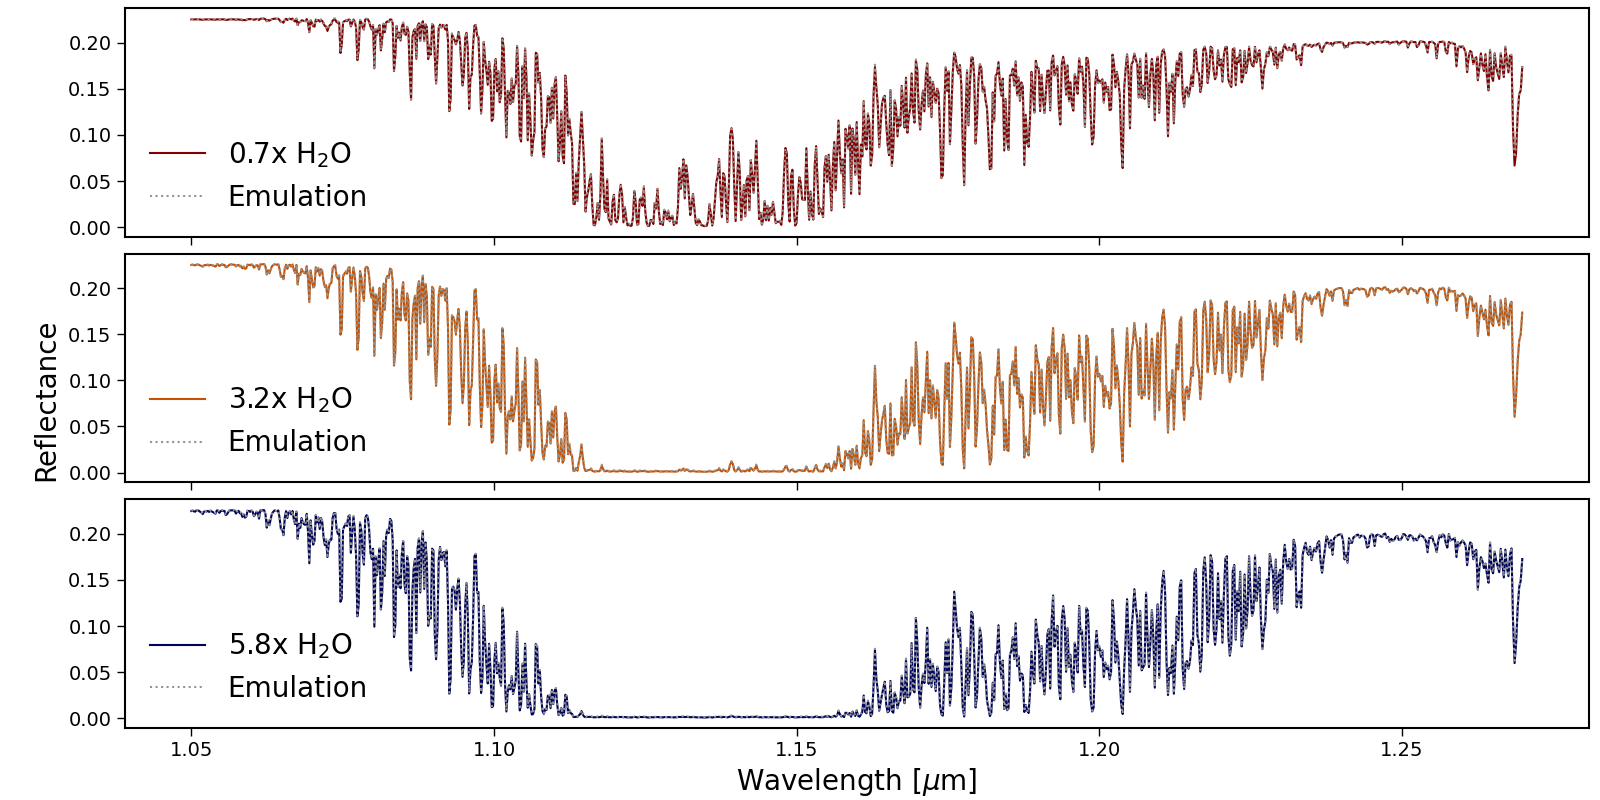
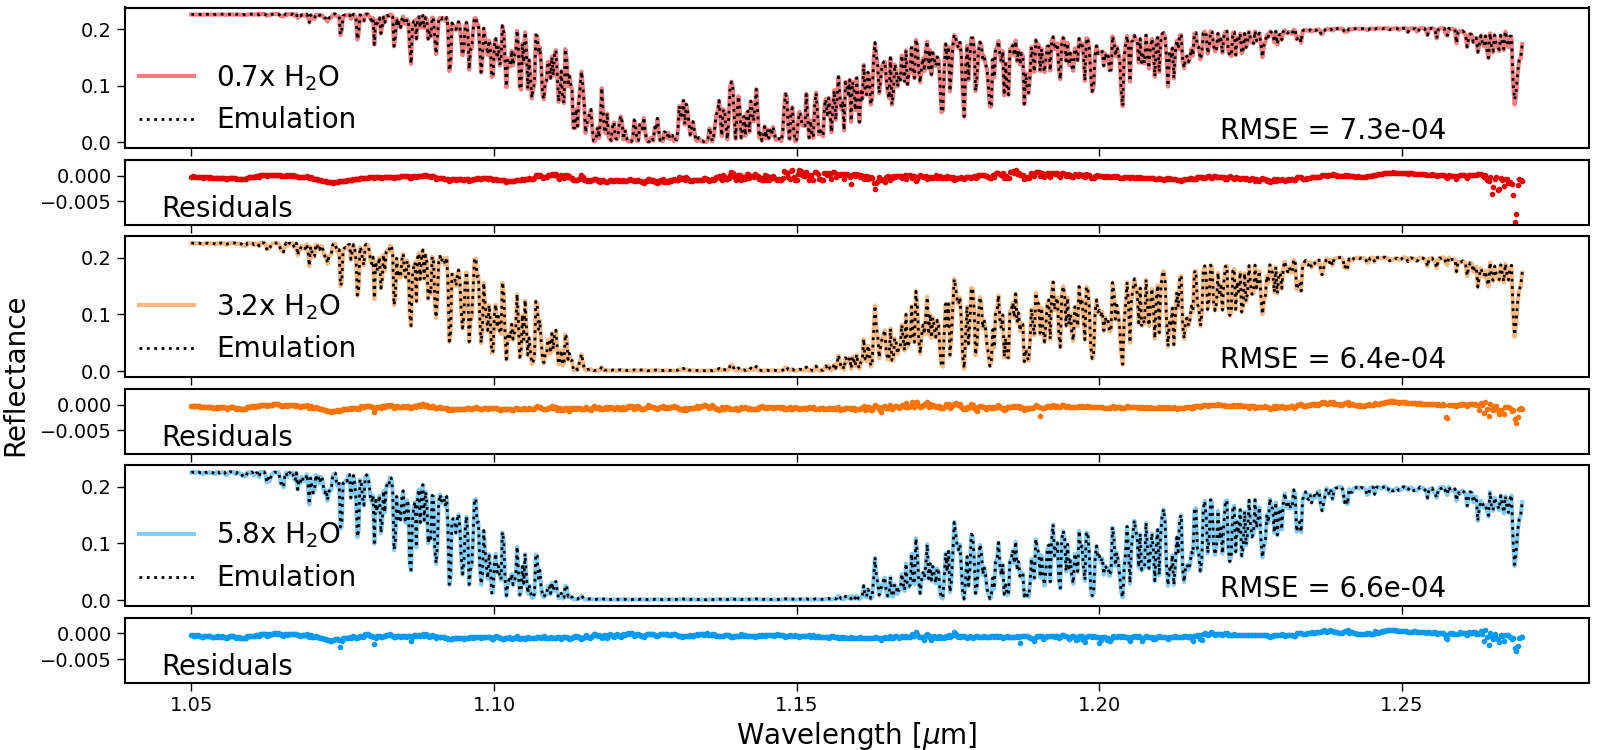
visual improvements to plots

diff --git a/Plot_Test.py b/Plot_Test.py
@@ -4,11 +4,19 @@ import h5py
 import pandas
 from astropy.io import ascii
 from degrade_spec_demo import *
+import matplotlib.gridspec as gridspec
 
 pt = ascii.read('../FluxPrintOut_Dev/PT_profile_Baseline.pt')
 p = list(pt['Press'])
 
 disortdat = h5py.File('../DISORT_Testing_Data.h5', 'r')
+
+# Root mean squared Error
+def RMSE(tru, fl):
+    top = np.sum((tru-fl)**2)
+    val = top/len(tru)
+    rmse = np.sqrt(val)
+    return rmse
 
 
 
@@ -283,27 +291,41 @@ def plot_TOAFlup(resol='high'):
 
     #pr1 = em1[:,0]
 
-    fig = plt.figure(figsize=(16,8))
-    ax1 = fig.add_subplot(311)
+    fig = plt.figure(figsize=(16,7.5))
+    '''ax1 = fig.add_subplot(311)
     ax2 = fig.add_subplot(312)
-    ax3 = fig.add_subplot(313)
+    ax3 = fig.add_subplot(313)'''
+
+    gs = gridspec.GridSpec(9, 1, figure=fig)
+
+    # Big subplots (2x height)
+    ax1 = fig.add_subplot(gs[0:2, 0])   # subplot 1 (double height)
+    ax3 = fig.add_subplot(gs[3:5, 0])   # subplot 3 (double height)
+    ax5 = fig.add_subplot(gs[6:8, 0])   # subplot 5 (double height)
+
+    # Small subplots (1x height)
+    ax2 = fig.add_subplot(gs[2, 0])     # subplot 2 (normal height)
+    ax4 = fig.add_subplot(gs[5, 0])     # subplot 4 (normal height)
+    ax6 = fig.add_subplot(gs[8, 0])     # subplot 6 (normal height)
 
     if resol == 'high':
         mask = tru1 > 0
         ax1.plot(wav1[mask], tru1[mask], color='xkcd:red', label='0.7x H2O')
-        mask = em1[:,0] > 0
-        ax1.plot(wav1[mask], em1[:,0][mask], color='xkcd:dark red', linestyle='--', label='Emulation')
+        mask1 = em1[:,0] > 0
+        ax1.plot(wav1[mask1], em1[:,0][mask1], color='xkcd:dark red', linestyle='--', label='Emulation')
+        ax2.plot(wav1[mask & mask1], tru1[mask & mask1]-em1[:,0][mask & mask1], linestyle='', marker='.', color='xkcd:dark red', label='Residuals')
         
         mask = tru2 > 0
-        ax2.plot(wav2[mask], tru2[mask], color='xkcd:orange', label='3.2x H2O')
-        mask = em2[:,0] > 0
-        ax2.plot(wav2[mask], em2[:,0][mask], color='xkcd:dark orange', linestyle='--', label='Emulation')
-        
+        ax3.plot(wav2[mask], tru2[mask], color='xkcd:orange', label='3.2x H2O')
+        mask1 = em2[:,0] > 0
+        ax3.plot(wav2[mask1], em2[:,0][mask1], color='xkcd:dark orange', linestyle='--', label='Emulation')
+        ax4.plot(wav2[mask & mask1], tru2[mask & mask1]-em2[:,0][mask & mask1], linestyle='', marker='.', color='xkcd:dark orange', label='Residuals')
+
         mask = tru3 > 0
-        ax3.plot(wav3[mask], tru3[mask], color='xkcd:blue', label='5.8x H2O')
-        mask = em3[:,0] > 0
-        ax3.plot(wav3[mask], em3[:,0][mask], color='xkcd:dark blue', linestyle='--', label='Emulation')
-        
+        ax5.plot(wav3[mask], tru3[mask], color='xkcd:blue', label='5.8x H2O')
+        mask1 = em3[:,0] > 0
+        ax5.plot(wav3[mask1], em3[:,0][mask1], color='xkcd:dark blue', linestyle='--', label='Emulation')
+        ax6.plot(wav3[mask & mask1], tru3[mask & mask1]-em3[:,0][mask & mask1], linestyle='', marker='.', color='xkcd:dark blue', label='Residuals')
     
     elif resol == 'low':
         newwl = np.linspace(max(wav1[0], wav2[0], wav3[0]), min(wav1[len(wav1)-1], wav2[len(wav2)-1], wav3[len(wav3)-1]), 500)
@@ -362,17 +384,26 @@ def plot_TOAFlup(resol='high'):
         # degrade spectrum
         tru3 = kernel_convol(kern,tru3[mask])
 
-        ax1.plot(lam_lr, tru1, color='xkcd:dark red', label=r'0.7x H$_{2}$O')
-        ax1.plot(lam_lr, fl1, color='xkcd:grey', linestyle=':', label='Emulation')
+        ax1.plot(lam_lr, tru1, color='xkcd:red', alpha=0.5, lw=3, label=r'0.7x H$_{2}$O')
+        ax1.plot(lam_lr, fl1, color='xkcd:black', linestyle=':', lw=2, label='Emulation')
+        ax2.plot(lam_lr, tru1-fl1, color='xkcd:red', linestyle='', marker='.')
+        rmse1 = RMSE(tru1, fl1)
+        ax1.annotate('RMSE = '+"{:.1e}".format(rmse1), (1.22, 0.006), size=20)
 
-        ax2.plot(lam_lr, tru2, color='xkcd:dark orange', label=r'3.2x H$_{2}$O')
-        ax2.plot(lam_lr, fl2, color='xkcd:grey', linestyle=':', label='Emulation')
+        ax3.plot(lam_lr, tru2, color='xkcd:orange', alpha=0.5, lw=3, label=r'3.2x H$_{2}$O')
+        ax3.plot(lam_lr, fl2, color='xkcd:black', linestyle=':', lw=2, label='Emulation')
+        ax4.plot(lam_lr, tru2-fl2, color='xkcd:orange', linestyle='', marker='.')
+        rmse2 = RMSE(tru2, fl2)
+        ax3.annotate('RMSE = '+"{:.1e}".format(rmse2), (1.22, 0.006), size=20)
+        
+        ax5.plot(lam_lr, tru3, color='xkcd:azure', alpha=0.5, lw=3, label=r'5.8x H$_{2}$O')
+        ax5.plot(lam_lr, fl3, color='xkcd:black', linestyle=':', lw=2, label='Emulation')
+        ax6.plot(lam_lr, tru3-fl3, color='xkcd:azure', linestyle='', marker='.')
+        rmse3 = RMSE(tru3, fl3)
+        ax5.annotate('RMSE = '+"{:.1e}".format(rmse3), (1.22, 0.006), size=20)
 
-        ax3.plot(lam_lr, tru3, color='xkcd:dark blue', label=r'5.8x H$_{2}$O')
-        ax3.plot(lam_lr, fl3, color='xkcd:grey', linestyle=':', label='Emulation')
 
-
-    subs=[ax1, ax2, ax3]
+    subs=[ax1, ax2, ax3, ax4, ax5, ax6]
     for ax in subs:
         ax.tick_params(length=6, width=1, labelsize=14)
         ax.tick_params(which='minor', length=4)
@@ -383,18 +414,29 @@ def plot_TOAFlup(resol='high'):
         #ax.set_yscale('log')
         #ax.set_ylim([0.1, 1])
         #ax.invert_yaxis()
-        ax.legend(fontsize=20, frameon=False)
+    
+    for ax in [ax1, ax3, ax5]:
+        ax.legend(fontsize=20, frameon=False, loc='lower left', borderaxespad=0.1)
+
+    for ax in [ax2, ax4, ax6]:
+        ax.set_ylim([-0.0095, 0.003])
+        ax.annotate('Residuals', (1.045, -0.008), size=20)
+
 
     ax1.set_xticklabels([])
     ax2.set_xticklabels([])
+    ax3.set_xticklabels([])
+    ax4.set_xticklabels([])
+    ax5.set_xticklabels([])
 
-    ax3.set_xlabel(r'Wavelength [$\mu$m]', size=20)
-    fig.supylabel('Reflectance', size=20)
+    ax6.set_xlabel(r'Wavelength [$\mu$m]', size=20)
+    fig.supylabel('Reflectance', x=0.001, size=20)
 
     #plt.tight_layout()
-    plt.subplots_adjust(left=0.078, bottom=0.09, right=0.993, top=0.99, wspace=0.2, hspace=0.075)
-    plt.savefig('SpectraCompare_linear_'+resol+'res.png')
+    plt.subplots_adjust(left=0.078, bottom=0.09, right=0.993, top=0.99, wspace=0.2, hspace=0.182)
+    plt.savefig('./EmulationResults/SpectraCompare_linear_'+resol+'res.png')
     plt.show()
+
 
     '''
     fig = plt.figure(figsize=(16,12))
